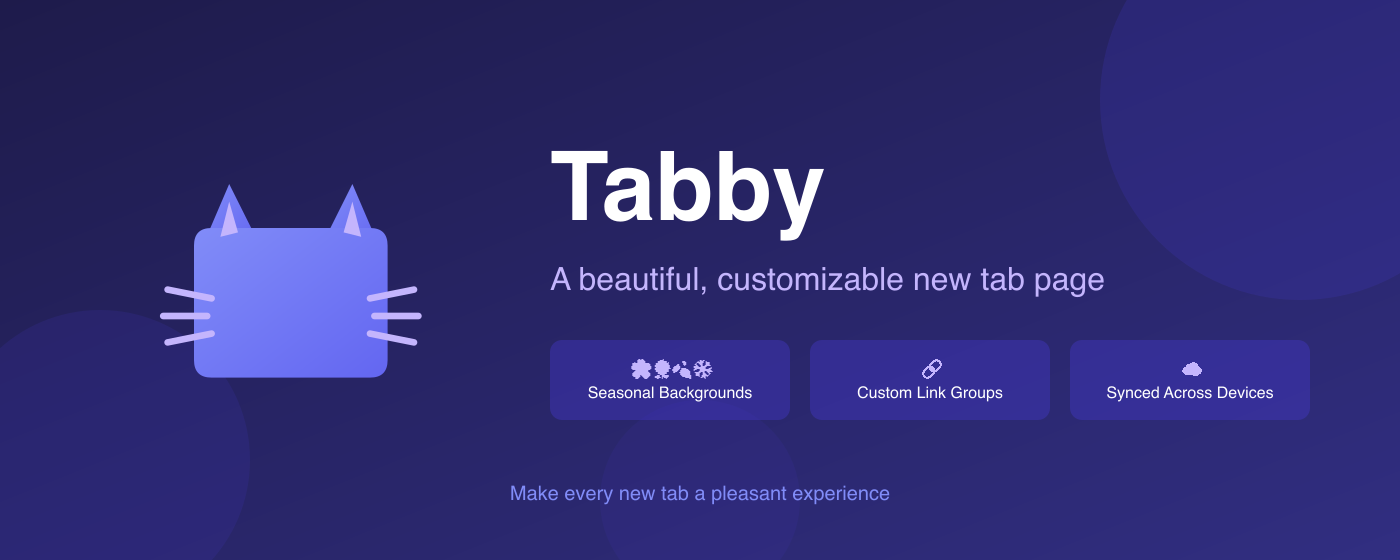
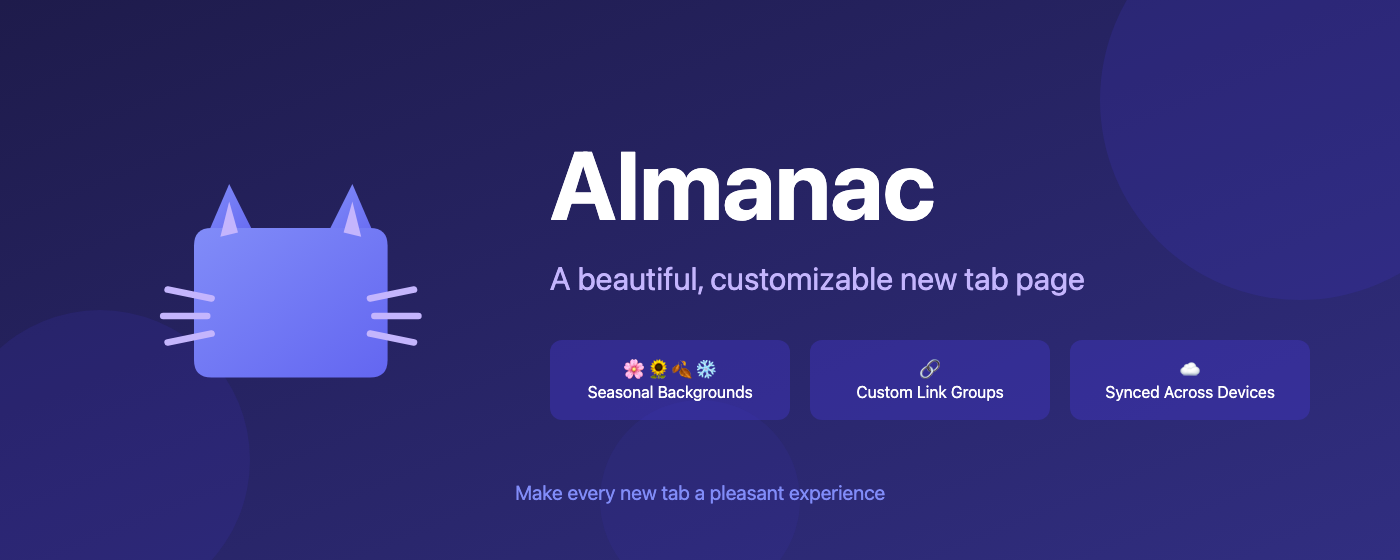
Rename the extension from Tabby to Almanac
Many extensions are called Tabby. Almanac is named for the old almanacs
that followed the turning seasons and the details of each day, which is
what each new tab now shows: this season's photo, the date and time,
and your links.

Renames every user-facing mention: the manifest name (which is also the
store title) and summary, page titles, the settings heading, export
file names, the listing and README, and the promo images. The listing
opens by explaining the name, replacing the cat joke.

Storage keys keep the old name (tabbyMeta, tabbySet:*), with a comment
saying why: renaming them would orphan every existing user's links.

diff --git a/options.js b/options.js
@@ -563,7 +563,7 @@ function handleButtonClick(e) {
           if (!choice) return;
           return exportJson(
             choice,
-            `tabby-set-${toFilename(editingSetName)}.json`,
+            `almanac-set-${toFilename(editingSetName)}.json`,
             { groups: editingGroups },
           );
         })
@@ -636,7 +636,7 @@ function handleButtonClick(e) {
             meta.setNames.forEach((name) => {
               sets[name] = (result[setKey(name)] || { groups: [] }).groups;
             });
-            return exportJson(choice, "tabby-backup.json", {
+            return exportJson(choice, "almanac-backup.json", {
               settings: meta.settings,
               sets,
             });

diff --git a/options.html b/options.html
@@ -2,7 +2,7 @@
 <html>
   <head>
     <meta charset="utf-8" />
-    <title>Tabby Settings</title>
+    <title>Almanac Settings</title>
     <link rel="icon" type="image/png" sizes="32x32" href="icons/icon48.png" />
     <link rel="icon" type="image/png" sizes="16x16" href="icons/icon16.png" />
     <style>
@@ -645,7 +645,7 @@
 
     <aside class="drawer">
       <header class="drawer-header">
-        <h1>Tabby settings</h1>
+        <h1>Almanac settings</h1>
         <nav class="tabs" role="tablist">
           <button class="tab" role="tab" data-tab="look">Look</button>
           <button class="tab" role="tab" data-tab="links">Links</button>

diff --git a/render.js b/render.js
@@ -171,7 +171,7 @@ const getClockParts = (settings, stacked) => {
 // Chrome's cached icon for a page, via the favicon permission. Sites never
 // visited in this browser come back as a generic globe. The permission is
 // optional (a required one would make Chrome warn existing users, and
-// disable Tabby, on update), so it's asked for when site icons are turned
+// disable Almanac, on update), so it's asked for when site icons are turned
 // on, and each device may or may not have granted it. Null without it,
 // including outside the extension (the screenshot harness).
 const FAVICON_PERMISSION = { permissions: ["favicon"] };

diff --git a/storage.js b/storage.js
@@ -6,6 +6,8 @@
 //   chrome.storage.sync   tabbySet:<name>  { groups: [...] }
 //   chrome.storage.local  activeSet        set shown on this device (local is never synced)
 
+// The keys keep the extension's original name, Tabby: renaming them would
+// orphan every existing user's saved links
 const SYNC_META_KEY = "tabbyMeta";
 const SYNC_SET_PREFIX = "tabbySet:";
 const LEGACY_SYNC_KEY = "tabbyData";

diff --git a/new-tab.html b/new-tab.html
@@ -2,7 +2,7 @@
 <html>
   <head>
     <meta charset="utf-8" />
-    <title>Tabby</title>
+    <title>Almanac</title>
     <link rel="icon" type="image/png" sizes="32x32" href="icons/icon48.png" />
     <link rel="icon" type="image/png" sizes="16x16" href="icons/icon16.png" />
     <link rel="stylesheet" href="panels.css" />

diff --git a/store/LISTING.md b/store/LISTING.md
@@ -1,17 +1,17 @@
-# Tabby - Chrome Web Store Listing
+# Almanac - Chrome Web Store Listing
 
 ID: ohdgighchcjhbbefopcoljmjaaodngcn
 
 ## Short Description (132 characters max)
 The store takes this from `description` in manifest.json, so change it there; it's copied here for reference.
 
-Your new tab is a blank page. Tabby swaps it for a seasonal photo and the links you actually use. No ads, no tracking, no sign-up.
+Your new tab is a blank page. Almanac swaps it for a seasonal photo and the links you actually use. No ads, no tracking, no sign-up.
 
 ## Detailed Description
 
 **Your new tab could look a lot better than a search box you never use.**
 
-Tabby fills it with a full-screen photo that follows the seasons, plus the links you actually click. (Despite the name, it's not a cat. It does share one cat skill: sitting in the same spot all day, looking nice.)
+Almanac fills it with a full-screen photo that follows the seasons, plus the links you actually click. It's named for the old almanacs that followed the turning year and the details of each day, and it does the same for your new tab: this season's scenery, today's date, and everything you need close at hand.
 
 🍂 **Photos that follow the calendar**
 Each new tab shows a photo from the current season, and neighboring seasons blend: late winter slips in the odd spring morning. In December, holiday scenes appear more and more often until Christmas Day.
@@ -55,10 +55,10 @@ English
 - customizable
 
 ## Privacy Statement
-Tabby stores your links and settings in Chrome's built-in storage. Links and settings sync to your Chrome account through Chrome sync storage; the choice of which link set a device shows is kept in local storage on that device and is never synced. No data is collected, shared, or sent to any external server, and there is no analytics or tracking of any kind.
+Almanac stores your links and settings in Chrome's built-in storage. Links and settings sync to your Chrome account through Chrome sync storage; the choice of which link set a device shows is kept in local storage on that device and is never synced. No data is collected, shared, or sent to any external server, and there is no analytics or tracking of any kind.
 
 ## Favicon Permission Justification
-Tabby requests the optional "favicon" permission only when a user turns on "Show site icons" in settings, to show each saved link's site icon next to its name on the new tab page. Icons come from Chrome's own local favicon cache; nothing is fetched from or sent to any external server. Site icons are off by default, and without the permission Tabby shows plain text links.
+Almanac requests the optional "favicon" permission only when a user turns on "Show site icons" in settings, to show each saved link's site icon next to its name on the new tab page. Icons come from Chrome's own local favicon cache; nothing is fetched from or sent to any external server. Site icons are off by default, and without the permission Almanac shows plain text links.
 
 ## Storage Permission Justification
-Tabby uses the "storage" permission to save your link sets and display settings (clock format, appearance and size) in Chrome's sync storage, so they persist between sessions and sync across your devices. It also uses local storage to remember which link set each device shows. No data is sent to external servers; everything stays in Chrome's built-in storage.
+Almanac uses the "storage" permission to save your link sets and display settings (clock format, appearance and size) in Chrome's sync storage, so they persist between sessions and sync across your devices. It also uses local storage to remember which link set each device shows. No data is sent to external servers; everything stays in Chrome's built-in storage.

diff --git a/README.md b/README.md
@@ -1,4 +1,6 @@
-# Tabby Chrome Extension
+# Almanac Chrome Extension
+
+Formerly Tabby. Named for the old almanacs that followed the turning seasons and the details of each day: Almanac gives every new tab a photo from the current season, your links, and the date and time.
 
 A beautiful Chrome extension that manages your links with seasonal backgrounds and synchronized data.
 
@@ -47,7 +49,7 @@ Images are randomly selected based on the current month with seasonal transition
 ## File Structure
 
 ```
-chrome-extension-tabby/
+chrome-extension-almanac/
 ├── manifest.json          # Extension configuration
 ├── popup.html             # Main popup interface
 ├── popup.js              # Core functionality and Chrome storage

diff --git a/CLAUDE.md b/CLAUDE.md
@@ -1,4 +1,4 @@
-# Tabby
+# Almanac (formerly Tabby)
 
 Chrome extension (Manifest V3): a new tab page with seasonal photos and link sets, plus a settings page that previews the real new tab. Plain HTML/CSS/JS, no build step; `release` is the default branch and every push to it publishes to the Chrome Web Store (see `.github/workflows/publish.yml`).
 
